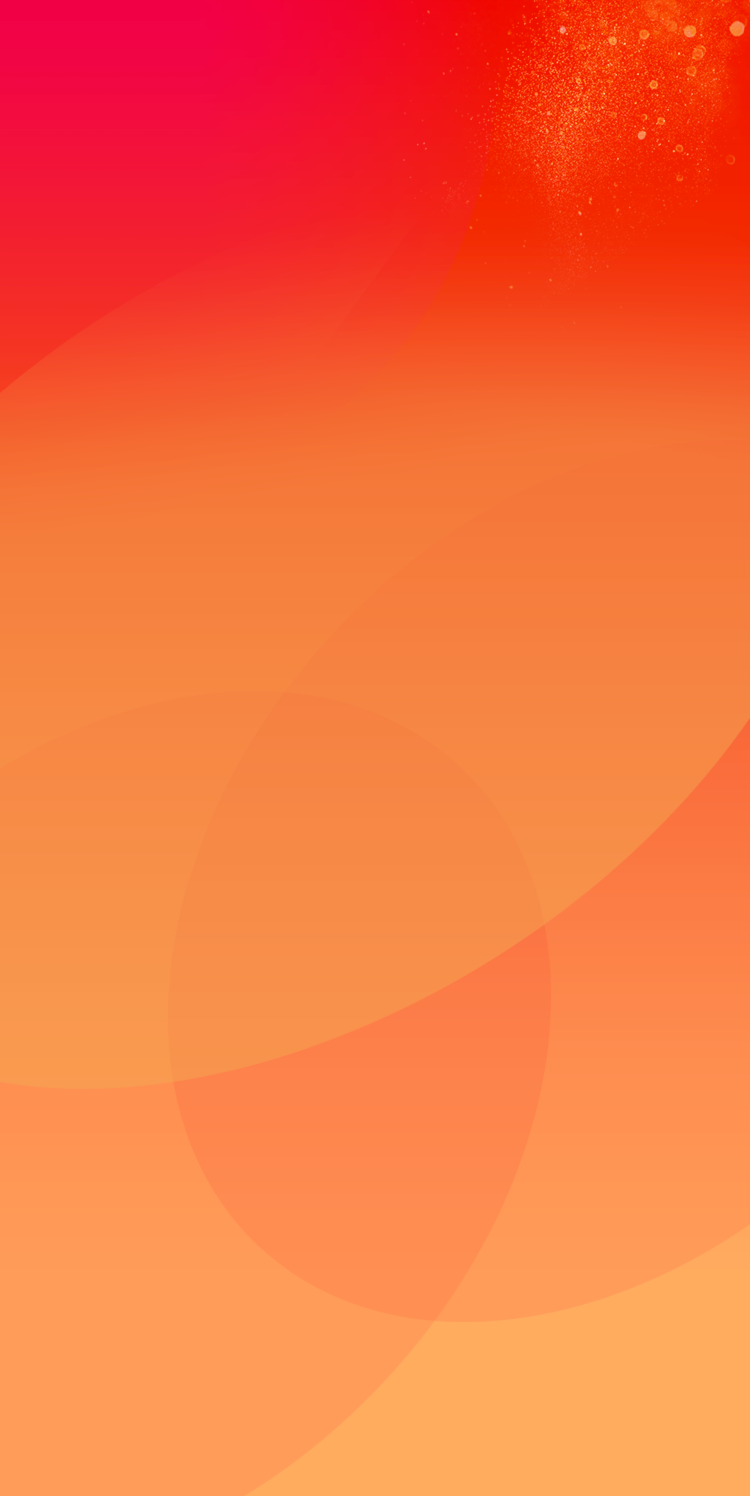
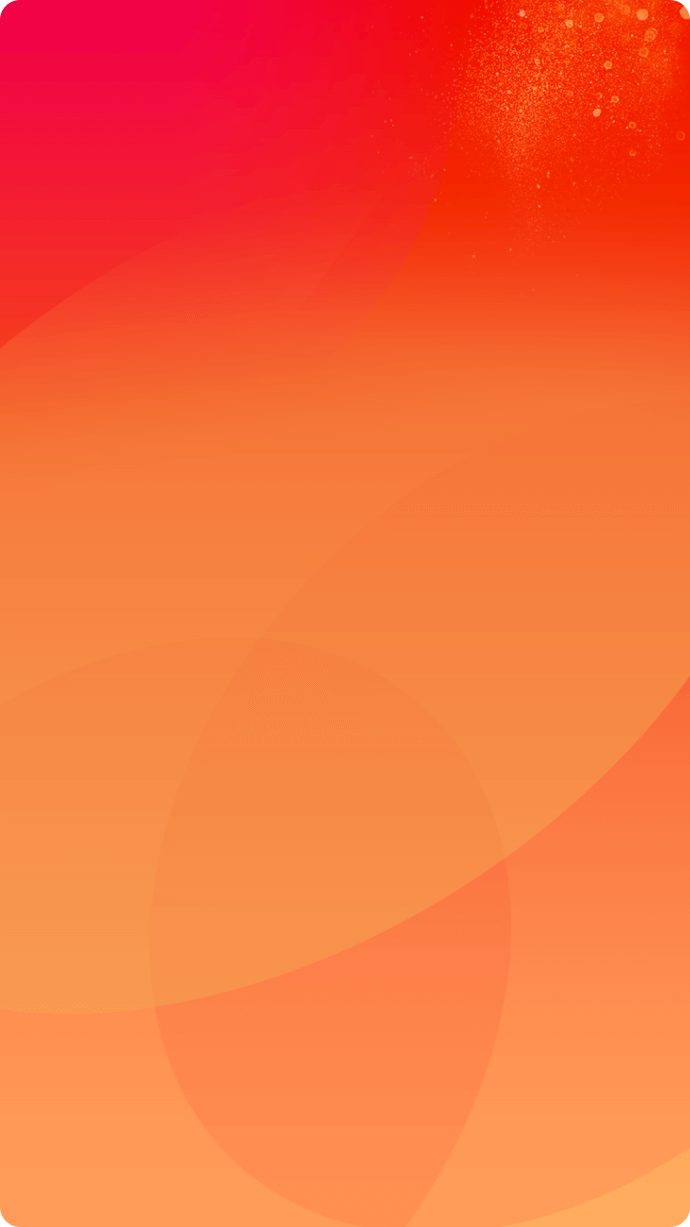
feat:dom生成image && add  config

diff --git a/src/views/Share.vue b/src/views/Share.vue
@@ -1,93 +1,129 @@
 <!--
  * @Date: 2020-01-10 09:48:14
  * @LastEditors  : hxz
- * @LastEditTime : 2020-01-10 17:23:35
+ * @LastEditTime : 2020-01-13 19:33:18
  -->
 <template>
   <div class="share-page">
-    <article class="share-content">
+    <article ref="capture" class="share-content">
       <section class="header">
         <div class="avator">
           <img
-            src="http://www.hkpznrf.com/uploads/allimg/191025/3-191025104923a2.jpg"
+            src="https://wx.qlogo.cn/mmopen/vi_32/Q0j4TwGTfTK27aiaK27euzIBs2AtqvjQsc4Imx3gCmge8V9PTSgzSNHxmxFbq4UAGskdsZy15TovjRkBIyYcc6Q/132"
             alt="用户头像"
           />
         </div>
-        <div>
-          细水长流 <br />
-          邀请你帮忙助力抽奖
-        </div>
+        <div>细水长流</div>
+        <div>邀请你帮忙助力抽奖</div>
       </section>
       <section class="goods">
+        <!-- 需要允许跨域 -->
         <img
-          src="http://www.hkpznrf.com/uploads/allimg/191025/3-19102510431c52.jpg"
+          src="https://hwcdn.jinlingkeji.cn/images/other/lottery.png"
           alt="奖品示意图"
         />
         <div>奖品：日本资深堂美润护手霜及纯手工面霜一盒</div>
       </section>
       <section class="qrcode"></section>
     </article>
-    <button class="save">保存到手机</button>
+    <template v-if="imageFile">
+      <div class="image_wrap">
+        <img :src="imageFile" class="share_image" />
+      </div>
+      <div class="tip">
+        长按图片保存，发送至朋友圈，<br />
+        赶紧邀请好友来助力吧！
+      </div>
+    </template>
+    <van-loading class="loading" v-else size="24px" vertical>
+      生成图片中...
+    </van-loading>
   </div>
 </template>
 
 <script>
-export default {};
+import html2canvas from "html2canvas";
+export default {
+  data() {
+    return {
+      imageFile: ""
+    };
+  },
+  mounted() {
+    this.save();
+  },
+  methods: {
+    async save() {
+      const el = this.$refs.capture;
+      const options = {
+        allowTaint: true,
+        useCORS: true,
+        backgroundColor: null
+      };
+      const canvas = await html2canvas(el, options);
+      this.imageFile = canvas.toDataURL("image/png");
+      console.log(canvas);
+    }
+  }
+};
 </script>
 
 <style lang="scss" scoped>
 .share-page {
+  position: relative;
   height: 100%;
-  background: url(~@/assets/share_bg.png) no-repeat center center;
-  background-size: 100% 100%;
-  padding: 65px 15px;
+  padding: 15px 15px 50px;
   box-sizing: border-box;
 
   .share-content {
+    position: absolute;
+    left: -1500px;
     box-sizing: border-box;
-    background: white;
-    height: calc(100% - 5.625rem);
+    background: url(~@/assets/share_bg.png) no-repeat center center;
+    background-size: 100% 100%;
+    width: 100%;
+    height: calc(100% - 4.25rem);
     border-radius: 10px;
     padding: 15px;
     display: flex;
     flex-direction: column;
 
     .header {
-      height: 3.75rem;
-      position: relative;
-      padding-left: 5rem;
-      font-size: 1.125rem;
-      color: rgba(51, 51, 51, 1);
+      text-align: center;
+      margin: 1.875rem auto 0.9375rem;
+      font-size: 1rem;
+      color: white;
       line-height: 1.875rem;
-      margin-bottom: 15px;
       .avator {
-        position: absolute;
-        left: 0.625rem;
+        display: inline-block;
         width: 3.75rem;
         height: 3.75rem;
         border-radius: 50%;
         overflow: hidden;
-
         > img {
           width: 100%;
           height: 100%;
         }
+      }
+
+      > div:last-child {
+        font-size: 1.125rem;
+        font-weight: 600;
       }
     }
 
     .goods {
       position: relative;
       flex: 1;
-      background: #f7f7f7;
-      border-radius: 10px;
+      background: white;
       overflow: hidden;
-      margin-bottom: 10px;
+      font-size: 0;
       > img {
-        height: 70%;
+        height: calc(100% - 5.25rem);
         width: 100%;
       }
       > div {
-        margin: 0.875rem;
+        padding: 0.875rem;
         font-size: 1.125rem;
         color: #333333;
         line-height: 1.75rem;
@@ -95,15 +131,35 @@ export default {};
     }
 
     .qrcode {
-      height: 6.875rem;
-      background: #f7f7f7;
-      border-radius: 0.625rem;
+      border-top: 1px solid #d8d8d8;
+      height: 7.5rem;
+      background: white;
     }
   }
 
-  .save {
-    height: 3.75rem;
-    margin-top: 1.875rem;
+  .tip {
+    line-height: 1.5rem;
+    color: #333;
+    text-align: center;
+    margin-top: 1.25rem;
+  }
+
+  .image_wrap {
+    overflow: hidden;
+    height: calc(100% - 4.25rem);
+    box-shadow: 0px 6px 18px 0px rgba(0, 0, 0, 0.3);
+    border-radius: 10px;
+    .share_image {
+      width: 100%;
+      height: 100%;
+    }
+  }
+
+  .loading {
+    position: relative;
+    left: 50%;
+    top: 50%;
+    transform: translate(-50%, -50%);
   }
 }
 </style>

diff --git a/public/index.html b/public/index.html
@@ -1,15 +1,21 @@
 <!DOCTYPE html>
 <html lang="en">
   <head>
-    <meta charset="utf-8">
-    <meta http-equiv="X-UA-Compatible" content="IE=edge">
-    <meta name="viewport" content="width=device-width,initial-scale=1.0">
-    <link rel="icon" href="<%= BASE_URL %>favicon.ico">
+    <meta charset="utf-8" />
+    <meta http-equiv="X-UA-Compatible" content="IE=edge" />
+    <meta
+      name="viewport"
+      content="width=device-width,initial-scale=1.0,viewport-fit=contain"
+    />
+    <link rel="icon" href="<%= BASE_URL %>favicon.ico" />
     <title>lottery</title>
   </head>
   <body>
     <noscript>
-      <strong>We're sorry but lottery doesn't work properly without JavaScript enabled. Please enable it to continue.</strong>
+      <strong
+        >We're sorry but lottery doesn't work properly without JavaScript
+        enabled. Please enable it to continue.</strong
+      >
     </noscript>
     <div id="app"></div>
     <!-- built files will be auto injected -->

diff --git a/src/main.js b/src/main.js
@@ -1,7 +1,7 @@
 /*
  * @Date: 2020-01-09 10:39:39
  * @LastEditors  : hxz
- * @LastEditTime : 2020-01-10 13:57:15
+ * @LastEditTime : 2020-01-13 18:17:21
  */
 import Vue from "vue";
 import "./plugins/axios";
@@ -13,10 +13,11 @@ import utils from "@/utils/utils.js";
 Vue.prototype.$wx = wx;
 Vue.prototype.$utils = utils;
 
-import { Tab, Tabs, Button, Dialog } from "vant";
+import { Tab, Tabs, Button, Loading, Dialog } from "vant";
 Vue.use(Tab)
   .use(Tabs)
   .use(Button)
+  .use(Loading)
   .use(Dialog);
 
 import VueClipboard from "vue-clipboard2";

diff --git a/babel.config.js b/babel.config.js
@@ -1,7 +1,7 @@
 /*
  * @Date: 2020-01-09 10:39:39
- * @LastEditors: hxz
- * @LastEditTime: 2020-01-09 11:41:18
+ * @LastEditors  : hxz
+ * @LastEditTime : 2020-01-13 09:20:30
  */
 module.exports = {
   presets: ["@vue/cli-plugin-babel/preset"],
@@ -11,7 +11,7 @@ module.exports = {
       {
         libraryName: "vant",
         libraryDirectory: "es",
-        style: true
+        style: name => `${name}/style/less`
       },
       "vant"
     ]

diff --git a/vue.config.js b/vue.config.js
@@ -1,0 +1,16 @@
+/*
+ * @Date: 2020-01-13 09:21:16
+ * @LastEditors  : hxz
+ * @LastEditTime : 2020-01-13 09:31:09
+ */
+module.exports = {
+  css: {
+    loaderOptions: {
+      less: {
+        modifyVars: {
+          "@red": "#F01818"
+        }
+      }
+    }
+  }
+};
